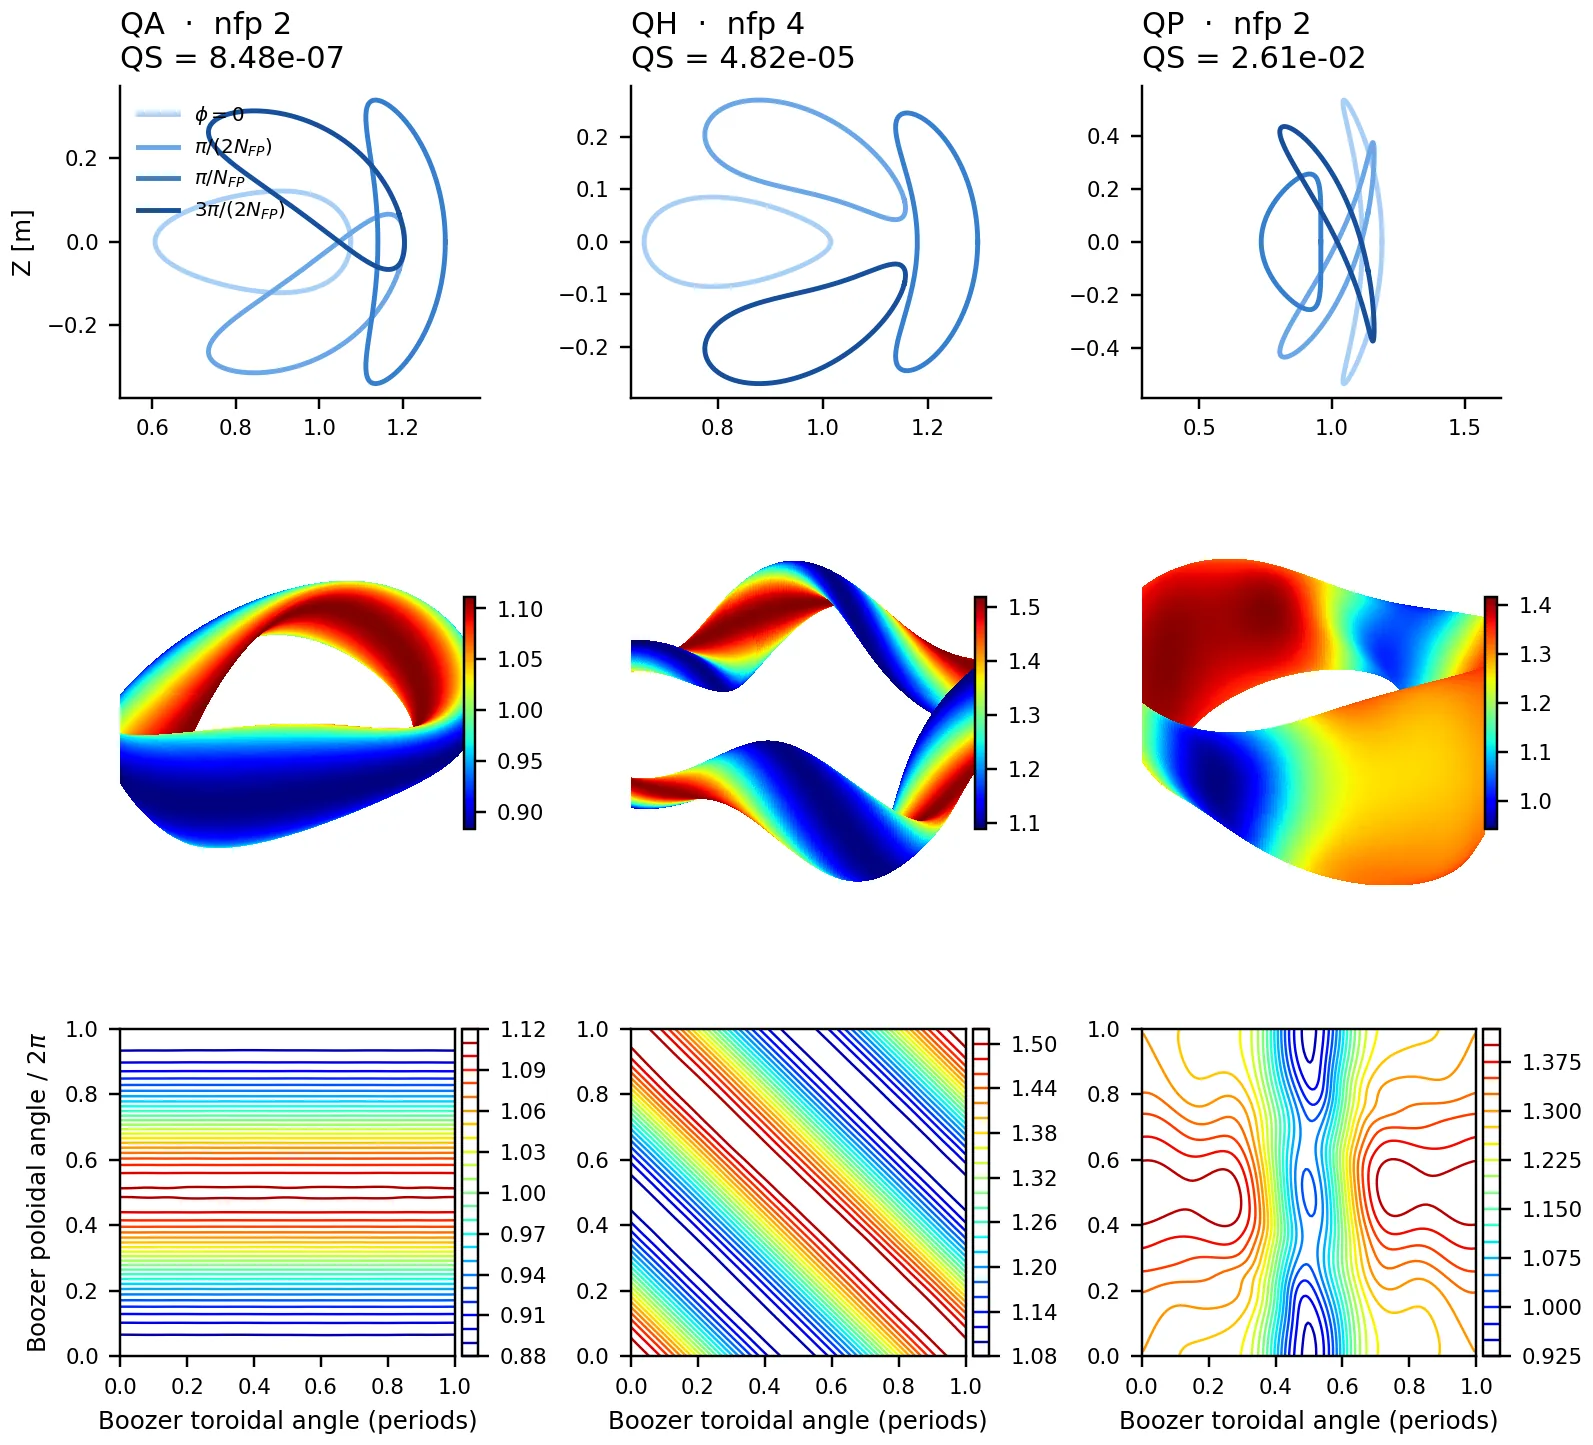
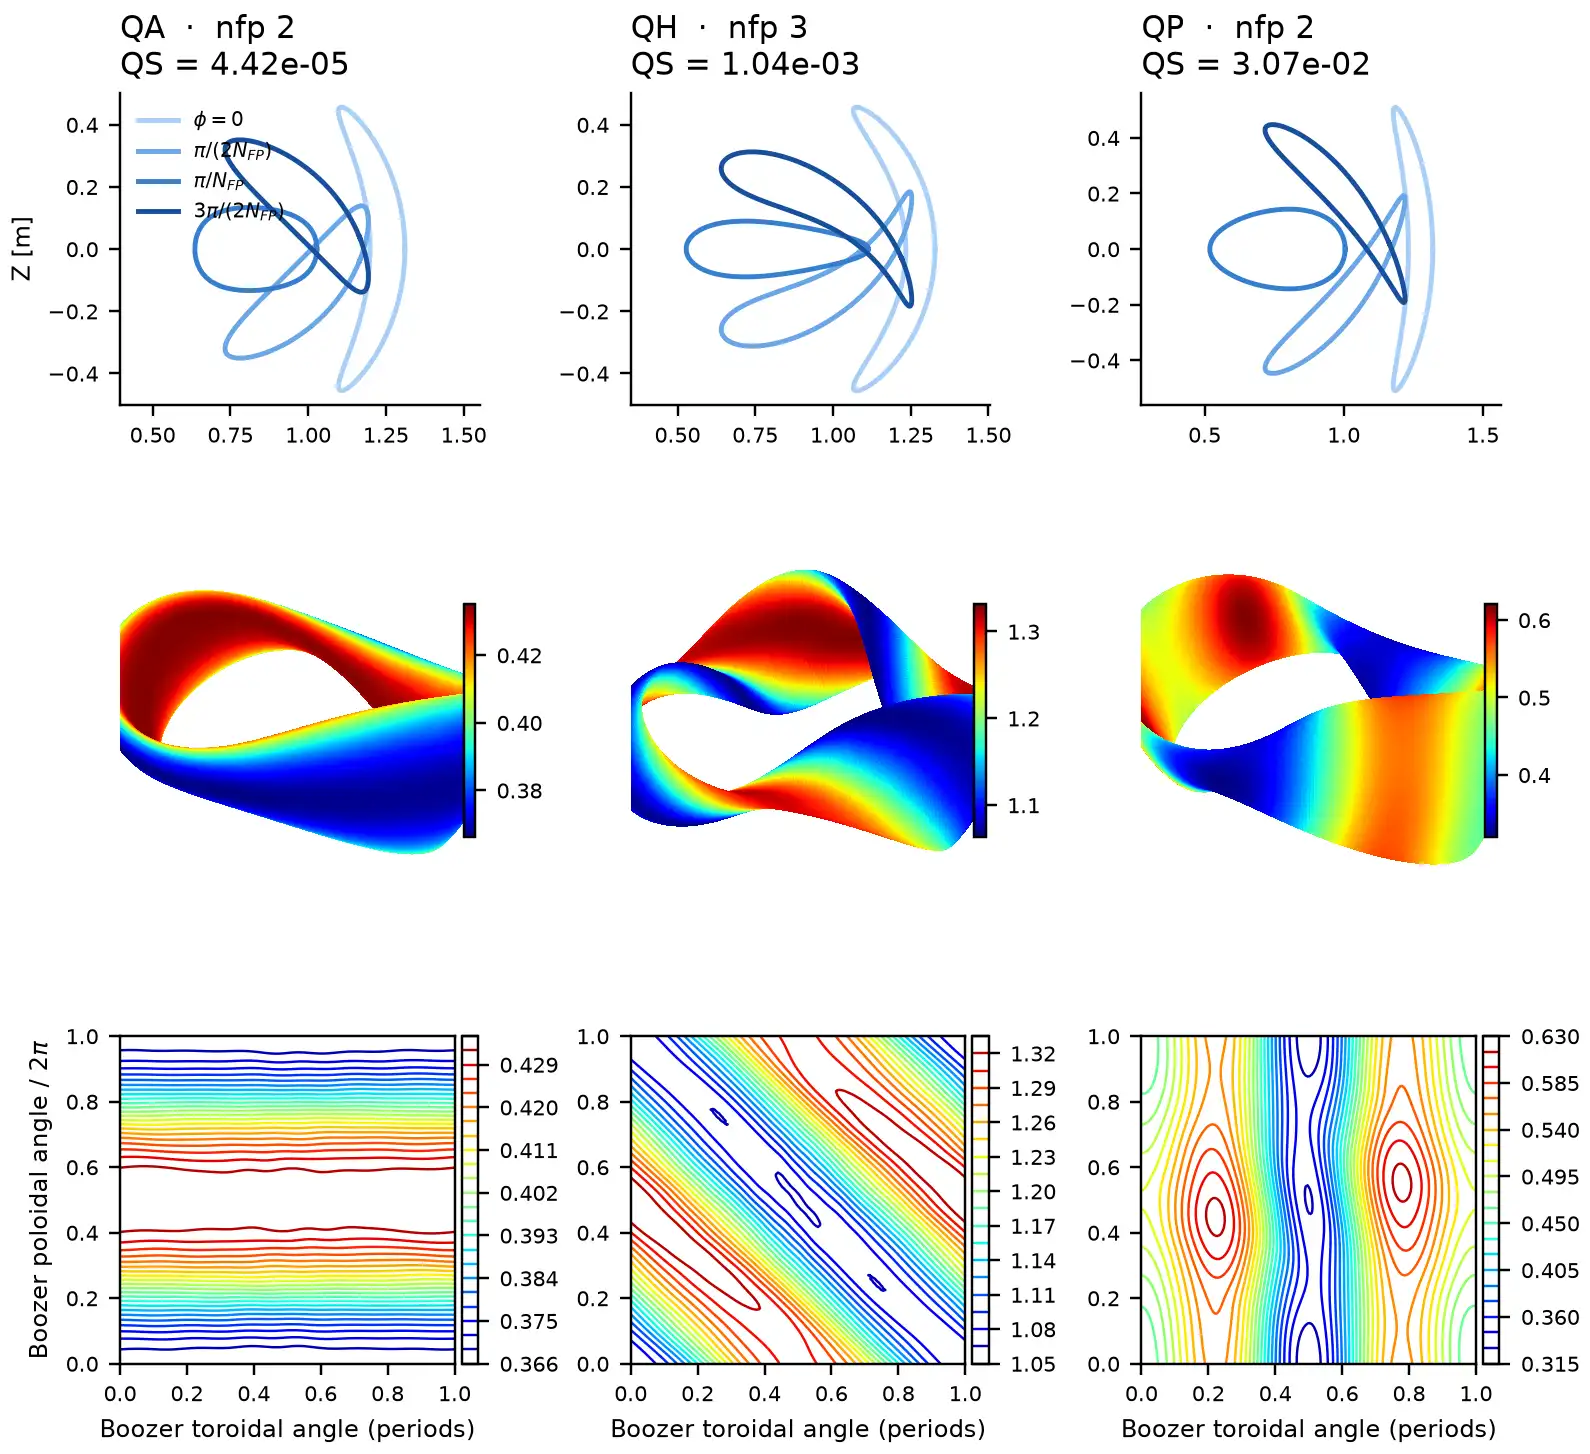
Make the QA, QH and QP vacuum examples converge from perturbed seeds (#778)
The vacuum QA, QH and QP examples converge from every deterministic seed with a [1, 2, 3] mode ladder and one-sided limits on iota and the well. QH defaults to NFP 3 with an iota floor of 0.8 (0 of 2000 alphas lost over 10 ms); the README figure is regenerated.

diff --git a/examples/optimization/QP_optimization.py b/examples/optimization/QP_optimization.py
@@ -3,20 +3,21 @@
 
 SciPy nonlinear least squares varies the boundary Fourier coefficients of a
 vacuum equilibrium in stages of increasing mode number. The residual vector
-holds the quasisymmetry ratio, the aspect ratio, and one-sided hinges on the
+holds the quasisymmetry ratio, the aspect ratio, and one-sided limits on the
 rotational transform, the mirror ratio and the elongation; VMEX supplies its
 exact Jacobian.
 
-Unlike the QA and QH scripts, each stage starts a fresh problem from the
-current boundary rather than restarting from the previous converged
-equilibrium, and the optimizer runs unbounded on the scaled variables.
+Quasi-poloidal symmetry is the hard member of the family: the first-order
+near-axis field is helical, so the residual is evaluated on s >= 0.5, and the
+shape limits bind (the elongation limit sits at its limit in the result).
+Loosening the limits lowers the residual at the price of an extremely shaped
+boundary.
 """
 
 import os
 from dataclasses import replace
 from pathlib import Path
 
-import jax.numpy as jnp
 import numpy as np
 from scipy.optimize import least_squares
 
@@ -40,18 +41,19 @@ SURFACES = np.array([0.5, 0.7, 0.9])
 
 # Mode ladder: highest boundary mode number varied in each stage, and the
 # residual evaluations each stage may spend:
-MAX_MODES = [1, 3]
-MAX_NFEV = [6, 8]
-
-# A gentler ladder that starts from lower modes:
-#   MAX_MODES = [1, 2, 3]
-#   MAX_NFEV = [20, 20, 20]
+MAX_MODES = [1, 2, 3]
+MAX_NFEV = [10, 15, 20]
 
 # Targets and limits:
 ASPECT_TARGET = 6.0
 IOTA_FLOOR = 0.51                 # minimum |iota| over the profile
 MIRROR_LIMIT = 0.35
 ELONGATION_LIMIT = 12.0
+
+# Hinge weights. Heavy limits on the shape limits make the trust region crawl
+# along the active constraints (a perturbed seed stalled at twice the residual):
+IOTA_WEIGHT = 10.0
+SHAPE_WEIGHT = 1.0
 
 # Step control:
 ESS_ALPHA = 1.2                   # smaller values let high Fourier modes move more
@@ -94,35 +96,14 @@ inp = replace(inp, rbc=rbc, zbs=zbs, delt=0.5,
 
 ### Set up the objective ######################################################
 
-def iota_floor(equilibrium_state, solver_context):
-    """Hinge on the profile minimum of |iota|: a mean target can hide a near-zero surface.
-
-    opt.mean_iota targets the average instead; opt.soft_min_abs_iota is the smooth minimum.
-    """
-    return jnp.maximum(
-        IOTA_FLOOR - opt.min_abs_iota(equilibrium_state, solver_context), 0.0)
-
-
-def mirror_excess(equilibrium_state, solver_context):
-    """Hinge on the mirror ratio above its limit; zero while the limit holds."""
-    return jnp.maximum(
-        opt.mirror_ratio(equilibrium_state, solver_context) - MIRROR_LIMIT, 0.0)
-
-
-def elongation_excess(equilibrium_state, solver_context):
-    """Hinge on the cross-section elongation above its limit."""
-    return jnp.maximum(
-        opt.max_elongation(equilibrium_state, solver_context) - ELONGATION_LIMIT, 0.0)
-
-
 # Each term is (function, target, weight).
 qs = opt.QuasisymmetryRatioResidual(SURFACES, helicity_m=0, helicity_n=1)
 objective_function_terms = [
     (qs, 0.0, 1.0),
     (opt.aspect_ratio, ASPECT_TARGET, 1.0),
-    (iota_floor, 0.0, 100.0),
-    (mirror_excess, 0.0, 10.0),
-    (elongation_excess, 0.0, 10.0),
+    (opt.min_abs_iota, opt.at_least(IOTA_FLOOR), IOTA_WEIGHT),
+    (opt.mirror_ratio, opt.at_most(MIRROR_LIMIT), SHAPE_WEIGHT),
+    (opt.max_elongation, opt.at_most(ELONGATION_LIMIT), SHAPE_WEIGHT),
 ]
 
 report = opt.EquilibriumReporter(

diff --git a/examples/optimization/QH_optimization.py b/examples/optimization/QH_optimization.py
@@ -23,7 +23,7 @@ import vmex as vj
 from vmex import optimize as opt
 
 # Number of field periods, and the seed deck the boundary is shaped from:
-NFP = 4
+NFP = 3
 INPUT_FILE = Path(__file__).resolve().parents[1] / "data" / f"input.minimal_seed_nfp{NFP}"
 
 # Rotating-ellipse amplitude added to the circular seed. A circular torus
@@ -35,11 +35,16 @@ SURFACES = np.linspace(0.1, 1.0, 10)
 
 # Mode ladder: highest boundary mode number varied in each stage, and the
 # residual evaluations each stage may spend:
-MAX_MODES = [1, 2]
-MAX_NFEV = [10, 15]
+MAX_MODES = [1, 2, 3]
+MAX_NFEV = [10, 15, 20]
 
-# Targets:
+# Targets. The iota floor keeps a stage from trading transform for quasisymmetry;
+# a limit costs nothing once its floor is met:
 ASPECT_TARGET = 6.0
+IOTA_FLOOR = 0.8                  # minimum |iota| over the profile
+IOTA_WEIGHT = 10.0
+MAGNETIC_WELL_TARGET = 0.0
+WELL_WEIGHT = 100.0
 
 # Trial-pressure stability screen, added from the second stage on. TRIAL_BETA
 # is the pressure proxy: beta = 2.5 %, p(s) proportional to 1 - s:
@@ -111,6 +116,8 @@ qs = opt.QuasisymmetryRatioResidual(SURFACES, helicity_m=1, helicity_n=-1)
 objective_function_terms = [
     (qs, 0.0, 1.0),
     (opt.aspect_ratio, ASPECT_TARGET, 1.0),
+    (opt.min_abs_iota, opt.at_least(IOTA_FLOOR), IOTA_WEIGHT),
+    (opt.magnetic_well, opt.at_least(MAGNETIC_WELL_TARGET), WELL_WEIGHT),
 ]
 
 report = opt.EquilibriumReporter(
@@ -194,7 +201,8 @@ final_equilibrium = opt.solve_equilibrium(
 ### Print, plot and save ######################################################
 
 final_total = report("final", final_equilibrium)["QS total"]
-opt.report_targets(final_equilibrium, aspect=ASPECT_TARGET)
+opt.report_targets(final_equilibrium, aspect=ASPECT_TARGET, iota_floor=IOTA_FLOOR,
+                   well_floor=MAGNETIC_WELL_TARGET)
 print(f"\nQS total {final_total:.3e}")
 if USE_TRIAL_STABILITY:
     final_s = np.linspace(0.0, 1.0, int(final_input.ns_array[-1]))[2:-1]

diff --git a/examples/optimization/QA_optimization.py b/examples/optimization/QA_optimization.py
@@ -16,7 +16,6 @@ import os
 from dataclasses import replace
 from pathlib import Path
 
-import jax.numpy as jnp
 import numpy as np
 from scipy.optimize import least_squares
 
@@ -37,13 +36,17 @@ SURFACES = np.linspace(0.1, 1.0, 10)
 # Mode ladder: highest boundary mode number varied in each stage, and the
 # most residual evaluations each stage may spend. opt.StallStop ends a stage
 # whose cost falls by less than 2 % over three accepted iterations:
-MAX_MODES = [1, 2]
-MAX_NFEV = [20, 30]
+MAX_MODES = [1, 2, 3]
+MAX_NFEV = [10, 15, 20]
 
 # Targets:
 ASPECT_TARGET = 6.0
 MAGNETIC_WELL_TARGET = 0.01
 IOTA_FLOOR = 0.42                 # minimum |iota| over the profile
+
+# Hinge weights for the iota floor and the well; a limit costs nothing once met:
+IOTA_WEIGHT = 10.0
+WELL_WEIGHT = 10.0
 
 # Alternative settings for a larger design space:
 #   MAX_MODES = [1, 3, 5, 7, 9]
@@ -90,22 +93,13 @@ inp = replace(inp, rbc=rbc, zbs=zbs)
 
 ### Set up the objective ######################################################
 
-def iota_floor(equilibrium_state, solver_context):
-    """Hinge on the profile minimum of |iota|: a mean target can hide a near-zero surface.
-
-    opt.mean_iota targets the average instead; opt.soft_min_abs_iota is the smooth minimum.
-    """
-    return jnp.maximum(
-        IOTA_FLOOR - opt.min_abs_iota(equilibrium_state, solver_context), 0.0)
-
-
 # Each term is (function, target, weight).
 qs = opt.QuasisymmetryRatioResidual(SURFACES, helicity_m=1, helicity_n=0)
 objective_function_terms = [
     (qs, 0.0, 1.0),
     (opt.aspect_ratio, ASPECT_TARGET, 1.0),
-    (iota_floor, 0.0, 10.0),
-    (opt.magnetic_well, MAGNETIC_WELL_TARGET, 1.0),
+    (opt.min_abs_iota, opt.at_least(IOTA_FLOOR), IOTA_WEIGHT),
+    (opt.magnetic_well, opt.at_least(MAGNETIC_WELL_TARGET), WELL_WEIGHT),
 ]
 
 report = opt.EquilibriumReporter(

diff --git a/examples/plot_optimized_families.py b/examples/plot_optimized_families.py
@@ -40,7 +40,7 @@ BLUE = "#2a78d6"
 CUT_COLORS = ("#a8cff7", "#6ba7e8", "#367fd0", "#174f9b")
 QS_CASES = (
     ("QA", "QA  ·  nfp 2", 1, 0),
-    ("QH", "QH  ·  nfp 4", 1, -1),
+    ("QH", "QH  ·  nfp 3", 1, -1),
     ("QP", "QP  ·  nfp 2", 0, 1),
 )
 QI_CASES = (
@@ -224,7 +224,7 @@ def _draw(cases, output, *, qi=False):
         boozer = figure.add_subplot(grid[2, column]); _boozer(figure, boozer, equilibrium.wout, title.replace(" ", "_"))
         if column == 0:
             boozer.set_ylabel(r"Boozer poloidal angle / $2\pi$", fontsize=8)
-    figure.savefig(output, dpi=PLOT_DPI, bbox_inches="tight", pad_inches=0.05)
+    figure.savefig(output, dpi=PLOT_DPI, bbox_inches="tight", pad_inches=0.05, pil_kwargs={"quality": 55})
     plt.close(figure); print(f"wrote {output}")
 
 

diff --git a/examples/README.md b/examples/README.md
@@ -144,6 +144,15 @@ that research budget as one commented set of constants next to the default.
   The scalar lane trades objective progress per evaluation (measured: QA
   final QS 2.7x above least squares with 40 mode-2 iterations; QI on an equal seed, weights and solve count ends 0.7x the least-squares value) for a cheaper cold start and
   lower peak memory; `QA_optimization.py` remains the default.
+  `QA_optimization.py`, `QH_optimization.py` and `QP_optimization.py` share one
+  ladder (`MAX_MODES = [1, 2, 3]`) and one-sided `opt.Hinge` rows for the
+  rotational-transform floor and, in QA and QH, the magnetic well, so a row
+  costs nothing once its floor holds. The seed is the circular deck plus a
+  rotating-ellipse amplitude. From amplitudes of about 0.5 to 1.4 times the
+  default, and with an added m = 2 mode, QA ends at QS 5e-5 to 9e-5 with
+  `epsilon_eff^(3/2)` below 3e-7, and QH (`NFP = 3`) at 5e-4 to 1.3e-3 with
+  `epsilon_eff^(3/2)` below 2e-5. QP is limited by its shape limits (see the
+  script docstring).
   `single_stage_optimization.py` *(preview)* is the simplest joint
   plasma-and-coil script and the one to copy for a new problem: every
   constraint is a quadratic penalty and the optimizer is one bounded L-BFGS-B

diff --git a/README.md b/README.md
@@ -255,7 +255,7 @@ Every figure below has a generator beside it, using repository decks or retained
 
 ### Quasisymmetric and quasi-isodynamic boundaries
 
-![QA at nfp 2, QH at nfp 4 and QP at nfp 2](docs/_static/figures/readme_optimization.webp)
+![QA at nfp 2, QH at nfp 3 and QP at nfp 2](docs/_static/figures/readme_optimization.webp)
 
 Boundary optimization for quasi-axisymmetry, quasi-helical symmetry and quasi-poloidal symmetry, each at its own
 field-period count, from `examples/optimization/QA_optimization.py` and its QH and QP siblings.
